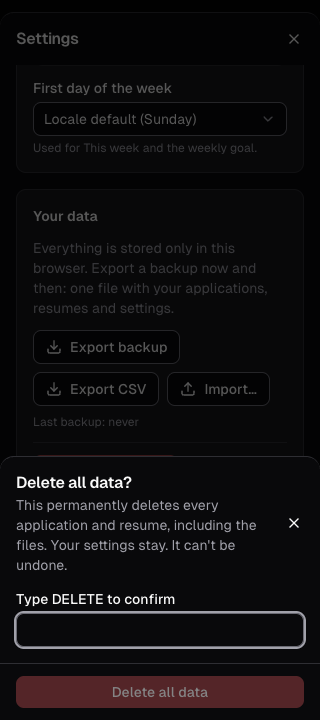
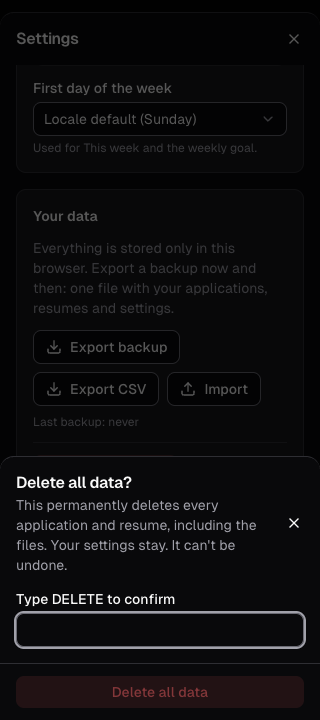
fix: shadcn's tinted destructive button, loaders for backup work, Import without an ellipsis

Changed region(s): [[0.0312, 0.9167, 0.9688, 1.0], [0.8125, 0.5194, 0.8438, 0.55]]

diff --git a/components/ImportSheet.test.tsx b/components/ImportSheet.test.tsx
@@ -3,6 +3,7 @@ import userEvent from '@testing-library/user-event';
 import { fakeBrowser } from 'wxt/testing/fake-browser';
 import { addApplication } from '@/lib/applications';
 import * as applicationsCsv from '@/lib/applicationsCsv';
+import * as backupImport from '@/lib/backupImport';
 import { db } from '@/lib/db';
 import { readSettings, updateSettings } from '@/lib/settings';
 import App from '@/entrypoints/sidepanel/App';
@@ -54,7 +55,7 @@ async function openImport(user: User) {
   render(<App />);
   await user.click(await screen.findByRole('button', { name: 'Settings' }));
   const settings = await screen.findByRole('dialog', { name: 'Settings' });
-  await user.click(within(settings).getByRole('button', { name: 'Import…' }));
+  await user.click(within(settings).getByRole('button', { name: 'Import' }));
   return screen.findByRole('dialog', { name: 'Import' });
 }
 
@@ -95,7 +96,7 @@ describe('Import', () => {
     await screen.findByText(/Backup merged/);
     await user.click(
       within(screen.getByRole('dialog', { name: 'Settings' })).getByRole('button', {
-        name: 'Import…',
+        name: 'Import',
       }),
     );
     const again = await screen.findByRole('dialog', { name: 'Import' });
@@ -206,6 +207,35 @@ describe('Import', () => {
     await pick(user, sheet, backupFile());
     await waitFor(() => expect(within(sheet).queryByRole('alert')).toBeNull());
     expect(within(sheet).getByRole('button', { name: 'Import' })).toBeEnabled();
+  });
+
+  it('shows a turning loader while it checks the file and while it imports', async () => {
+    let finishMerge!: () => void;
+    vi.spyOn(backupImport, 'mergeBackup').mockImplementation(
+      () =>
+        new Promise((resolve) => {
+          finishMerge = () => resolve({ applications: 1, resumes: 0, changed: true });
+        }),
+    );
+    const user = userEvent.setup();
+    const sheet = await openImport(user);
+    let finishRead!: (text: string) => void;
+    const file = backupFile();
+    const text = await file.text();
+    vi.spyOn(file, 'text').mockReturnValue(new Promise((resolve) => (finishRead = resolve)));
+    await pick(user, sheet, file);
+    const checking = await within(sheet).findByRole('status');
+    expect(checking).toHaveTextContent('Checking the file…');
+    expect(checking.querySelector('[data-spinner]')).not.toBeNull();
+    finishRead(text);
+    const button = await within(sheet).findByRole('button', { name: 'Import' });
+    expect(button.querySelector('[data-spinner]')).toBeNull();
+    await user.click(button);
+    expect(button).toHaveTextContent('Importing…');
+    expect(button).toHaveAttribute('aria-disabled', 'true');
+    expect(button.querySelector('[data-spinner]')).not.toBeNull();
+    finishMerge();
+    expect(await screen.findByText(/Backup merged/)).toBeInTheDocument();
   });
 
   it('says nothing changed when the write fails', async () => {

diff --git a/components/ImportSheet.tsx b/components/ImportSheet.tsx
@@ -17,6 +17,7 @@ import { listResumes } from '@/lib/resumes';
 import { FileDropZone } from './FileDropZone';
 import { SegmentedControl } from './SegmentedControl';
 import { Sheet } from './Sheet';
+import { Spinner } from './Spinner';
 import { SUBMIT_SHORTCUT } from './submitShortcut';
 import { useAction } from './useAction';
 
@@ -223,6 +224,7 @@ export function ImportSheet({
           onClick={() => void start()}
           className="btn btn-primary w-full"
         >
+          {action.busy && <Spinner />}
           {action.busy
             ? 'Importing…'
             : csv
@@ -268,7 +270,8 @@ export function ImportSheet({
         </p>
       </div>
       {picked?.state === 'reading' && (
-        <p role="status" className="text-sm text-muted-foreground">
+        <p role="status" className="flex items-center gap-2 text-sm text-muted-foreground">
+          <Spinner />
           Checking the file…
         </p>
       )}
@@ -332,6 +335,7 @@ export function ImportSheet({
             onClick={() => void replace()}
             className="btn btn-destructive w-full"
           >
+            {action.busy && <Spinner />}
             {action.busy ? 'Replacing…' : 'Replace all data'}
           </button>
         }

diff --git a/components/SettingsPanel.test.tsx b/components/SettingsPanel.test.tsx
@@ -624,4 +624,26 @@ describe('Settings', () => {
     expect(await screen.findByText('CSV downloaded: 1 application.')).toBeInTheDocument();
     expect(within(data).queryByRole('alert')).toBeNull();
   });
+
+  it('shows a turning loader on an export while it runs', async () => {
+    let finish!: () => void;
+    vi.spyOn(backup, 'exportBackup').mockReturnValue(
+      new Promise((resolve) => (finish = () => resolve({ applications: 0, resumes: 0 }))),
+    );
+    const user = userEvent.setup();
+    const data = card(await openSettings(user), 'Your data');
+    const button = within(data).getByRole('button', { name: 'Export backup' });
+    await user.click(button);
+    expect(button).toHaveTextContent('Exporting…');
+    expect(button.querySelector('[data-spinner]')).not.toBeNull();
+    await act(async () => finish());
+    expect(button).toHaveTextContent('Export backup');
+    expect(button.querySelector('[data-spinner]')).toBeNull();
+  });
+
+  it('names the import button without an ellipsis', async () => {
+    const user = userEvent.setup();
+    const data = card(await openSettings(user), 'Your data');
+    expect(within(data).getByRole('button', { name: 'Import' })).toBeInTheDocument();
+  });
 });

diff --git a/components/SettingsPanel.tsx b/components/SettingsPanel.tsx
@@ -32,6 +32,7 @@ import { NumberField } from './NumberField';
 import { SegmentedControl } from './SegmentedControl';
 import { Select } from './Select';
 import { Sheet } from './Sheet';
+import { Spinner } from './Spinner';
 import { useAction } from './useAction';
 import { useLastBackup } from './useLastBackup';
 import { useSettings } from './useSettings';
@@ -420,7 +421,7 @@ function BackupButtons({
           }}
           className="btn btn-outline"
         >
-          <DownloadIcon />
+          {action.busy ? <Spinner /> : <DownloadIcon />}
           {action.busy ? 'Exporting…' : 'Export backup'}
         </button>
         <button
@@ -438,12 +439,12 @@ function BackupButtons({
           }}
           className="btn btn-outline"
         >
-          <DownloadIcon />
+          {csv.busy ? <Spinner /> : <DownloadIcon />}
           {csv.busy ? 'Exporting…' : 'Export CSV'}
         </button>
         <button type="button" onClick={onImport} className="btn btn-outline">
           <UploadIcon />
-          Import…
+          Import
         </button>
       </div>
       {lastBackup.loaded && <p className="field-hint">{lastBackupText(lastBackup.at)}</p>}

diff --git a/assets/theme.css b/assets/theme.css
@@ -36,9 +36,10 @@
   --muted-foreground: #63636b;
   --accent: #f4f4f5;
   --accent-foreground: #18181b;
-  /* Destructive text and edges; a destructive button is filled with --destructive-solid
-     (shadcn's red: bg-destructive in light, bg-destructive/60 in dark) with white text. The text
-     red is a shade darker than the fill, so it stays 4.5:1 on a highlighted menu item (accent). */
+  /* Destructive text and edges. A destructive button is shadcn's tint: --destructive-solid at 20%
+     behind text in --destructive-solid itself (the owner's choice, v0.7.1, knowing that button's
+     text falls short of 4.5:1). The text red is a shade darker than the fill, so it stays 4.5:1
+     on a highlighted menu item (accent). */
   --destructive: #c10007;
   --destructive-solid: #e7000b;
   --destructive-foreground: #ffffff;
@@ -103,7 +104,7 @@
   --accent: #27272a;
   --accent-foreground: #fafafa;
   --destructive: #ff6467;
-  --destructive-solid: #9f4144;
+  --destructive-solid: #ff6467;
   --destructive-foreground: #ffffff;
   --border: #2e2e33;
   --input: #6b6b74;

diff --git a/e2e/backup.spec.ts b/e2e/backup.spec.ts
@@ -90,7 +90,7 @@ test('a backup restores everything after Delete all data, resume files included'
   await expect(deleting).toBeHidden();
   await settings.locator('label', { hasText: 'Light' }).click();
 
-  await data.getByRole('button', { name: 'Import…' }).click();
+  await data.getByRole('button', { name: 'Import' }).click();
   const importing = page.getByRole('dialog', { name: 'Import' });
   await importing.getByLabel('File to import').setInputFiles({
     name: download.suggestedFilename(),
@@ -177,7 +177,7 @@ test('a CSV imports after a preview, and the template downloads', async ({ sessi
   const data = page
     .getByRole('dialog', { name: 'Settings' })
     .getByRole('region', { name: 'Your data' });
-  await data.getByRole('button', { name: 'Import…' }).click();
+  await data.getByRole('button', { name: 'Import' }).click();
   const importing = page.getByRole('dialog', { name: 'Import' });
   const [template] = await Promise.all([
     page.waitForEvent('download'),

diff --git a/review/screenshots.spec.ts b/review/screenshots.spec.ts
@@ -113,7 +113,7 @@ test('design-review screenshots', async ({ session }) => {
     await page.keyboard.press('Escape');
     await expect(page.getByRole('dialog', { name: 'Delete all data?' })).toBeHidden();
     // Import, previewing a CSV: rows to add, one already logged, a note, a row skipped.
-    await settings.getByRole('button', { name: 'Import…' }).click();
+    await settings.getByRole('button', { name: 'Import' }).click();
     const importing = page.getByRole('dialog', { name: 'Import' });
     await importing.getByLabel('File to import').setInputFiles({
       name: 'applications.csv',

diff --git a/components/Spinner.tsx b/components/Spinner.tsx
@@ -1,0 +1,11 @@
+import { LoaderCircleIcon } from './icons';
+
+/**
+ * Shows that work is running (an export, an import, a file being checked). It turns with a CSS
+ * transform, which Chrome animates off the main thread, so it keeps turning while a big file is
+ * parsed or encoded. Decorative: the text beside it says what's happening. Still under reduced
+ * motion.
+ */
+export function Spinner({ className = 'size-4' }: { className?: string }) {
+  return <LoaderCircleIcon data-spinner="" className={`${className} motion-safe:animate-spin`} />;
+}

diff --git a/entrypoints/sidepanel/style.css b/entrypoints/sidepanel/style.css
@@ -137,9 +137,9 @@
 @utility btn-link {
   @apply text-primary underline-offset-4 hover:underline;
 }
-/* shadcn's destructive button: a solid red with white text. */
+/* shadcn's destructive button: a red tint with red text (the owner's choice over contrast). */
 @utility btn-destructive {
-  @apply bg-destructive-solid text-destructive-foreground hover:bg-destructive-solid/90;
+  @apply bg-destructive-solid/20 text-destructive-solid hover:bg-destructive-solid/30;
 }
 
 /* Text inputs, selects and textareas. */

diff --git a/tests/contrast.test.ts b/tests/contrast.test.ts
@@ -51,7 +51,8 @@ const TEXT: [string, string][] = [
   ['destructive', 'popover'],
   // A highlighted destructive menu item (Delete in a MoreMenu).
   ['destructive', 'accent'],
-  ['destructive-foreground', 'destructive-solid'],
+  // No pair for the destructive button: it's shadcn's red tint with red text, kept by the owner's
+  // choice (v0.7.1) although its text is under 4.5:1.
   ['warning-foreground', 'warning'],
   ['success', 'card'],
   ['success', 'background'],

diff --git a/components/icons.tsx b/components/icons.tsx
@@ -196,6 +196,12 @@ export const UploadIcon = (props: IconProps) => (
   </Icon>
 );
 
+export const LoaderCircleIcon = (props: IconProps) => (
+  <Icon {...props}>
+    <path d="M21 12a9 9 0 1 1-6.219-8.56" />
+  </Icon>
+);
+
 export const DownloadIcon = (props: IconProps) => (
   <Icon {...props}>
     <path d="M21 15v4a2 2 0 0 1-2 2H5a2 2 0 0 1-2-2v-4" />

diff --git a/CLAUDE.md b/CLAUDE.md
@@ -54,9 +54,9 @@ Link context-menu clicks skip extraction and only pass `linkUrl`. Buttons inside
 
 **Scrollbars** are hidden everywhere (`scrollbar-width: none` plus `::-webkit-scrollbar` for Chrome < 121, in `style.css` base); where hidden content would go unnoticed, fade the edge that has more beyond it with `useEdgeFade(ref, axis, size, trigger)` (`components/useEdgeFade.ts`: Stats' range chips, Notes past twelve lines; sets `data-fade-start`/`data-fade-end` and a mask). Pass a controlled field's `value` as `trigger`; never update state from the field's own input events, since that re-renders it with its old value before React's onChange and the typed text is lost.
 
-**Theme and styles (spec §9):** colors come only from the tokens in `assets/theme.css` (hex, a light set on `:root` and a dark set on `[data-theme='dark']`), used as Tailwind colors (`bg-background`, `text-muted-foreground`, `border-input`, `bg-status-progress`, …). Never write a raw palette class like `text-slate-600` or `bg-indigo-600`: it won't change with the theme. `--success` is the goal card's restrained green. `tests/contrast.test.ts` checks the listed token pairs (text 4.5:1; inputs, focus rings, chart bars and status segments 3:1) in both themes, so add a pair there when you add a token that shows text or a mark. Shared styles live in `entrypoints/sidepanel/style.css` as Tailwind utilities: `btn` plus a variant (`btn-primary`, `btn-outline`, `btn-ghost`, `btn-secondary`, `btn-destructive` (filled with `--destructive-solid`, white text; `--destructive` is for destructive text), `btn-link`) and optionally `btn-sm`/`btn-icon`, `field` for inputs/selects/textareas, `field-label`, `field-error`, `card`, `section-heading`, `link`, `focus-ring`. `lib/theme.ts` sets `data-theme` (the resolved theme) and `data-theme-setting` on `<html>` and keeps a `localStorage` mirror; `entrypoints/theme-init.ts` (an unlisted script loaded as a classic `<script src="/theme-init.js" vite-ignore>` in each page's `<head>`) applies the mirror before the first paint. The side panel follows the setting with `useTheme()` in `App`; other pages call `followThemeSetting()`. Every extension page (the panel, `resume-viewer`, `notices`, `privacy`) includes that head script and imports the tokens. Icons are Lucide paths copied into `components/icons.tsx` (decorative, `aria-hidden`); add one from the `lucide-static` package rather than installing an icon library. Geist is bundled as a Latin subset (`assets/fonts/`); its OFL and Lucide's ISC license are on the `notices` page.
+**Theme and styles (spec §9):** colors come only from the tokens in `assets/theme.css` (hex, a light set on `:root` and a dark set on `[data-theme='dark']`), used as Tailwind colors (`bg-background`, `text-muted-foreground`, `border-input`, `bg-status-progress`, …). Never write a raw palette class like `text-slate-600` or `bg-indigo-600`: it won't change with the theme. `--success` is the goal card's restrained green. `tests/contrast.test.ts` checks the listed token pairs (text 4.5:1; inputs, focus rings, chart bars and status segments 3:1) in both themes, so add a pair there when you add a token that shows text or a mark. Shared styles live in `entrypoints/sidepanel/style.css` as Tailwind utilities: `btn` plus a variant (`btn-primary`, `btn-outline`, `btn-ghost`, `btn-secondary`, `btn-destructive` (shadcn's tint: `--destructive-solid` at 20% behind `--destructive-solid` text, the owner's choice although under 4.5:1, so it has no contrast pair; `--destructive` is for destructive text elsewhere), `btn-link`) and optionally `btn-sm`/`btn-icon`, `field` for inputs/selects/textareas, `field-label`, `field-error`, `card`, `section-heading`, `link`, `focus-ring`. `lib/theme.ts` sets `data-theme` (the resolved theme) and `data-theme-setting` on `<html>` and keeps a `localStorage` mirror; `entrypoints/theme-init.ts` (an unlisted script loaded as a classic `<script src="/theme-init.js" vite-ignore>` in each page's `<head>`) applies the mirror before the first paint. The side panel follows the setting with `useTheme()` in `App`; other pages call `followThemeSetting()`. Every extension page (the panel, `resume-viewer`, `notices`, `privacy`) includes that head script and imports the tokens. Icons are Lucide paths copied into `components/icons.tsx` (decorative, `aria-hidden`); add one from the `lucide-static` package rather than installing an icon library. Geist is bundled as a Latin subset (`assets/fonts/`); its OFL and Lucide's ISC license are on the `notices` page.
 
-**Settings** (`components/SettingsPanel.tsx`): the content of a near-full-height `Sheet` (not dismissible: the goal is a text field) that the header's gear ("Settings", `aria-haspopup="dialog"`) opens over whatever tab is showing, once settings have loaded; `App` owns `settingsOpen`, and `selectTab` clears it (only a capture or a toast's action switches tabs). `settingsShown` lasts until it has slid out, and with a form sheet makes `pageInert`, which holds back focus meant for the page (the restored row after Undo, + Add) until then; a toast closed inside any open sheet leaves focus in that sheet. It's not a tab. Cards for Weekly goal, Display, Your data and About. Its confirmations are sheets on top of it; in e2e, wait for one to close before pressing Escape again, since a sheet sliding out swallows the key. Changes save as they're made (the goal when its field is left or on Enter, never per keystroke, so "201" can't store "20" on the way) and show up in every window through `useSettings`. **Delete all data** (`lib/deleteAll.ts`) is the one permanent delete: it clears `applications`, `resumes` and `resumeFiles` in one transaction (all or nothing), then removes the remembered form defaults and pending capture drafts; settings stay. **Reset settings** resets them, and with "Also delete all my data" ticked deletes first, so a failed delete leaves the settings too. Both need `DELETE` typed (case-sensitive, spaces around ignored), unticking forgets what was typed, and both confirm in a `Sheet`. The sheet tells `App` (`handleDataDeleted`, back to an empty list) as soon as the tables are cleared, even if a later step fails (`LeftoversError`, or the settings reset), and says plainly whether the data is gone. Every window follows the remembered form defaults through `onFormDefaultsChanged`, so none keeps deleted ones. About links to bundled pages (`privacy.html`, a placeholder until M9, and `notices.html`). **Export backup** (`lib/backup.ts`, spec §6) downloads `huntlog-backup-YYYY-MM-DD.json` through `downloadBlob` (`lib/download.ts`, a clicked `<a download>`, no `downloads` permission; `openResume` uses it too): live rows only (plus a deleted resume a live application still links to), only the settings that are set, applications without their derived fields, files base64, written as one Blob part per resume so a large library is never one string. The export's time is `backup.lastExportedAt` in `chrome.storage.local`, shown as "Last backup: …" (`lastBackupText`, local calendar days) and followed across windows by `useLastBackup`. **Import…** opens `ImportSheet` (a sheet over Settings, dismissible, not closable mid-import): `parseBackup` (`lib/backupImport.ts`) checks the whole file before anything is written (strict ISO timestamps, `safeHref` URLs, known enums, text limits, resume files through `checkContents` and a `mimeType` from `formatMimeType`; derived fields recomputed, unknown fields dropped, null means absent) and lists every problem. `mergeBackup` (newer `updatedAt` wins, a tie keeps the stored row, settings untouched) and `replaceWithBackup` (clear and `bulkAdd` in one transaction, then the settings and form defaults; a failure after the data is `SettingsRestoreError`) each write in one transaction. Replace asks in a nested "Replace all data?" sheet with `countLiveData`'s counts; its destructive button isn't the shortcut's. `App.handleDataImported` goes back to the list and bumps `listShown` so its frozen order refreshes. `FileDropZone` is the one drop zone (the uploader's and the import's). **Export CSV** (`lib/applicationsCsv.ts`: `CSV_COLUMNS` is the one column list for the export, the template and the import) writes `huntlog-applications-YYYY-MM-DD.csv` through `lib/csv.ts` (hand-written RFC 4180: `toCsv`, `parseCsv`, a BOM; `neutralizeFormula` prefixes `'` to cells starting with `= + - @`, tab or CR, and `restoreFormulaText` undoes it on import); it doesn't count as a backup. A CSV picked in the Import sheet (by `.csv`, or content not starting with `{`) goes through `planCsvImport` (`lib/csvImport.ts`, pure: columns matched by name in any order, Company and URL required, rows checked by `validateApplication`, statuses, work modes and periods matched loosely, an unknown status → Applied with a warning, a job past Saved without a date kept undated, one history entry, resumes linked by name, `duplicate` against stored rows and earlier rows) into a preview (`CsvPreview`), and `importCsvRows` adds the rows in one transaction, re-checking duplicates and resume links there, and leaving duplicates out unless "Import them anyway". `parseCsv` takes the separator `detectDelimiter` finds (`;` from European Excel) and keeps blank lines so row numbers match a spreadsheet's; `readCsvDate` reads the locale's numeric dates.
+**Settings** (`components/SettingsPanel.tsx`): the content of a near-full-height `Sheet` (not dismissible: the goal is a text field) that the header's gear ("Settings", `aria-haspopup="dialog"`) opens over whatever tab is showing, once settings have loaded; `App` owns `settingsOpen`, and `selectTab` clears it (only a capture or a toast's action switches tabs). `settingsShown` lasts until it has slid out, and with a form sheet makes `pageInert`, which holds back focus meant for the page (the restored row after Undo, + Add) until then; a toast closed inside any open sheet leaves focus in that sheet. It's not a tab. Cards for Weekly goal, Display, Your data and About. Its confirmations are sheets on top of it; in e2e, wait for one to close before pressing Escape again, since a sheet sliding out swallows the key. Changes save as they're made (the goal when its field is left or on Enter, never per keystroke, so "201" can't store "20" on the way) and show up in every window through `useSettings`. **Delete all data** (`lib/deleteAll.ts`) is the one permanent delete: it clears `applications`, `resumes` and `resumeFiles` in one transaction (all or nothing), then removes the remembered form defaults and pending capture drafts; settings stay. **Reset settings** resets them, and with "Also delete all my data" ticked deletes first, so a failed delete leaves the settings too. Both need `DELETE` typed (case-sensitive, spaces around ignored), unticking forgets what was typed, and both confirm in a `Sheet`. The sheet tells `App` (`handleDataDeleted`, back to an empty list) as soon as the tables are cleared, even if a later step fails (`LeftoversError`, or the settings reset), and says plainly whether the data is gone. Every window follows the remembered form defaults through `onFormDefaultsChanged`, so none keeps deleted ones. About links to bundled pages (`privacy.html`, a placeholder until M9, and `notices.html`). **Export backup** (`lib/backup.ts`, spec §6) downloads `huntlog-backup-YYYY-MM-DD.json` through `downloadBlob` (`lib/download.ts`, a clicked `<a download>`, no `downloads` permission; `openResume` uses it too): live rows only (plus a deleted resume a live application still links to), only the settings that are set, applications without their derived fields, files base64, written as one Blob part per resume so a large library is never one string. The export's time is `backup.lastExportedAt` in `chrome.storage.local`, shown as "Last backup: …" (`lastBackupText`, local calendar days) and followed across windows by `useLastBackup`. **Import** opens `ImportSheet` (a sheet over Settings, dismissible, not closable mid-import): `parseBackup` (`lib/backupImport.ts`) checks the whole file before anything is written (strict ISO timestamps, `safeHref` URLs, known enums, text limits, resume files through `checkContents` and a `mimeType` from `formatMimeType`; derived fields recomputed, unknown fields dropped, null means absent) and lists every problem. `mergeBackup` (newer `updatedAt` wins, a tie keeps the stored row, settings untouched) and `replaceWithBackup` (clear and `bulkAdd` in one transaction, then the settings and form defaults; a failure after the data is `SettingsRestoreError`) each write in one transaction. Replace asks in a nested "Replace all data?" sheet with `countLiveData`'s counts; its destructive button isn't the shortcut's. `App.handleDataImported` goes back to the list and bumps `listShown` so its frozen order refreshes. `FileDropZone` is the one drop zone (the uploader's and the import's). Busy exports and imports, and "Checking the file…", show `Spinner` (`components/Spinner.tsx`, a CSS-transform spin that Chrome runs off the main thread, so it turns while a big file is parsed; still under reduced motion). **Export CSV** (`lib/applicationsCsv.ts`: `CSV_COLUMNS` is the one column list for the export, the template and the import) writes `huntlog-applications-YYYY-MM-DD.csv` through `lib/csv.ts` (hand-written RFC 4180: `toCsv`, `parseCsv`, a BOM; `neutralizeFormula` prefixes `'` to cells starting with `= + - @`, tab or CR, and `restoreFormulaText` undoes it on import); it doesn't count as a backup. A CSV picked in the Import sheet (by `.csv`, or content not starting with `{`) goes through `planCsvImport` (`lib/csvImport.ts`, pure: columns matched by name in any order, Company and URL required, rows checked by `validateApplication`, statuses, work modes and periods matched loosely, an unknown status → Applied with a warning, a job past Saved without a date kept undated, one history entry, resumes linked by name, `duplicate` against stored rows and earlier rows) into a preview (`CsvPreview`), and `importCsvRows` adds the rows in one transaction, re-checking duplicates and resume links there, and leaving duplicates out unless "Import them anyway". `parseCsv` takes the separator `detectDelimiter` finds (`;` from European Excel) and keeps blank lines so row numbers match a spreadsheet's; `readCsvDate` reads the locale's numeric dates.
 
 **`lib/stats.ts` is pure.** It takes applications, a range and `weekStartsOn`, and returns numbers, which keeps it unit-testable. `resolveRange()` turns a range choice into dates, given `now` (Custom accepts dates from 1970 to today only). `computeStats()` counts Interviews and Offers by *stage*, which is the first entry into Interviewing/Offer/Accepted (or Offer/Accepted), so they agree with the interview rate. `components/StatsPanel.tsx` only picks the range and displays the result (the range is a scrolling radio group of chips, one Tab stop; each time the tab is shown, or the range changes, the chosen chip is scrolled back into view sideways only, by setting the row's `scrollLeft`, since `scrollIntoView` would scroll the tab too; with arrow keys moving focus but not the range, as in a toggle group, `rovingIndex` again; it bleeds to the tab's edges through `--tab-gutter`, which `TabPanel` sets as its side padding; Custom's From/To are in a "Custom range" sheet that applies only on Apply, its errors through `useFieldErrors`, whose `clear(field)` clears just the field being edited; in tests pick with `within(getByRole('radiogroup', { name: 'Range' })).getByRole('radio', { name })`). `DateRangeFields` is the one From/To pair, shared with the list's date filter, so their bounds match. `StatsPanel` gets the week start from `effectiveWeekStart()`: the Settings choice, else `localeWeekStart()` (`lib/locale.ts`). `weeklyGoalProgress()` counts this calendar week's Applied (by Date applied, live rows only) against the goal, whatever range is picked. With a goal set, the first card under the range is `WeeklyGoalCard` (`StatsCharts.tsx`: a region named "Weekly application goal", described by `goalSummary`; this week's count large, "submitted this week"; a five-segment `role="progressbar"` filled per `segmentFill`, `bg-chart-1` below the goal and `bg-success` from it, with a check and "You've reached your goal!"; nothing for a goal that isn't positive), and the range's Applied joins Interviews and Offers in a three-card row; without one, `AppliedCard` shows Applied large, laid out like the goal card, with a pointer to the setting, and Interviews and Offers follow as two cards, then the rates. Rejections appear only inside the neutral outcomes breakdown ("Closed – not selected"), never as a headline stat or in red. Each chart is a `card` with a title and summary; the activity bars are HTML (`data-bar`, rounded tops, dashed gridlines), not a stretched SVG, and size within their slot by width, since percentage padding would be measured against the whole chart.
 
